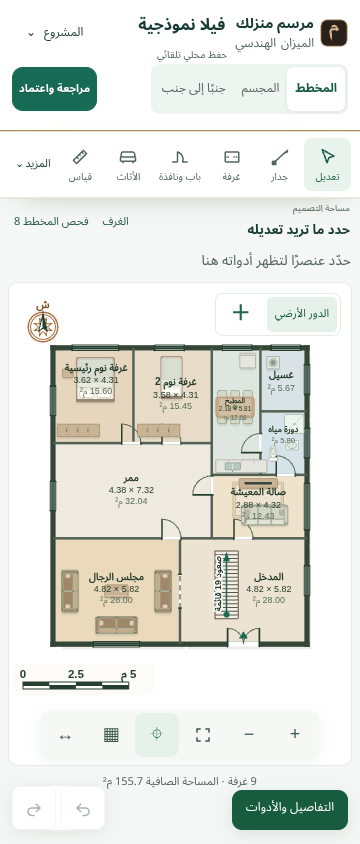
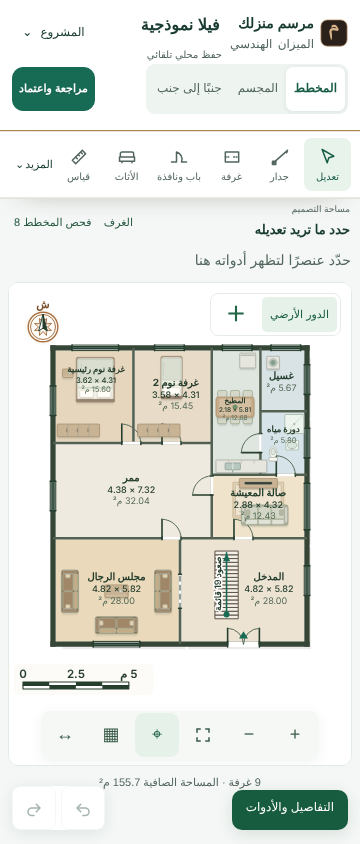
Fix clipped summary values in studio floor panel
Constrain the shared .kv grid inside the studio panel so long values
such as areas and building dimensions wrap instead of overflowing the
RTL panel edge. Refresh studio evidence screenshots.

Claude-Session: https://claude.ai/code/session_01NcKftBBritNab1SzVXiSbw

diff --git a/dist/studio-experience.css b/dist/studio-experience.css
@@ -610,10 +610,14 @@ body.studio-experience {
   font-size: 13px;
   gap: 7px 12px;
   color: #52665d;
+  grid-template-columns: minmax(0, max-content) minmax(0, 1fr);
 }
 .studio-experience .kv b {
   color: #214d36;
   font-weight: 600;
+  min-width: 0;
+  text-align: start;
+  overflow-wrap: anywhere;
 }
 .studio-experience .side .acts {
   display: flex;
